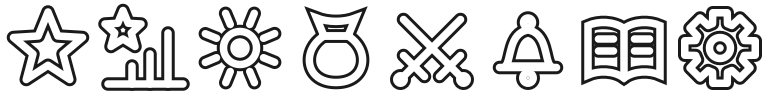
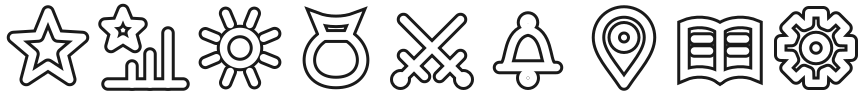
Map & location settings page (the location strip, its place, Show runs on the map); a Location button on the menu (map pin)

diff --git a/art/launcher.py b/art/launcher.py
@@ -1,11 +1,12 @@
 #!/usr/bin/env python3
-"""Generate toolbox/launcher.png: the launcher strip's button pictures, as an eight-frame sprite.
+"""Generate toolbox/launcher.png: the launcher strip's button pictures, as a nine-frame sprite.
 
     python3 art/launcher.py
 
 Frames, left to right (hud.lua's LN.BUTTONS uses the same order): XP (a star), XP Detailed (a star over a bar
-chart), Today (a sun), Loot Tracker (a bag), Combat Detailed (crossed swords), Notifications (a bell), Docs (an
-open book), Settings (a gear): Settings last, Docs above it (owner, 2026-10-10). White line art with a dark edge, so the game's tint (@gold) colours it and it
+chart), Today (a sun), Loot Tracker (a bag), Combat Detailed (crossed swords), Notifications (a bell), Location
+(a map pin; owner, 2026-10-13), Docs (an open book), Settings (a gear): Settings last, Docs above it (owner,
+2026-10-10). White line art with a dark edge, so the game's tint (@gold) colours it and it
 reads on any skin. Each frame is FRAME px square, drawn on a 64-unit grid. Writes art/launcher.svg and renders it
 with rsvg-convert, as art/marks.py does.
 """
@@ -57,6 +58,8 @@ FRAMES = [
     ("notify", '<path d="M17 44 C21 40 19 22 32 20 C45 22 43 40 47 44 Z" stroke-linejoin="round"/>'
                '<line x1="13" y1="45" x2="51" y2="45"/><circle cx="32" cy="52" r="3.5"/>'
                '<circle cx="32" cy="15" r="3"/>'),
+    ("location", '<path d="M32 56 C24 44 15 35 15 25 C15 15 23 8 32 8 C41 8 49 15 49 25 C49 35 40 44 32 56 Z" '
+                 'stroke-linejoin="round"/><circle cx="32" cy="25" r="6.5"/>'),
     ("docs", '<path d="M32 19 C25 14 15 14 8 17 V50 C15 47 25 47 32 52 C39 47 49 47 56 50 V17 C49 14 39 14 32 19 Z"/>'
              '<line x1="32" y1="19" x2="32" y2="52"/><line x1="15" y1="26" x2="25" y2="26"/>'
              '<line x1="15" y1="34" x2="25" y2="34"/><line x1="39" y1="26" x2="49" y2="26"/>'

diff --git a/AGENTS.md b/AGENTS.md
@@ -208,10 +208,12 @@ into one if a new file is ever needed).
   `ShroudGetPlayerCompassHeading`; hover = `ShroudGetLocationText`), its own `LOC.TICK` periodic setting text only
   on change, its width from the scene name's length (refit on a scene change); fishable water (API 32, `water`: the nearest within
   30 m on a line hidden when none, `LOC.UpdateWater`; the scene's kinds in the hover, re-read every `LOC.WATER_EVERY` s
-  (a town's water decoration changes them, review 32); harness `H.S.water`, `H.S.sceneWater`, `H.S.noWater`); controls on the HUD layout page.
+  (a town's water decoration changes them, review 32); harness `H.S.water`, `H.S.sceneWater`, `H.S.noWater`); controls (and its Position rows: `POSITIONED`'s
+  page field) on the "Map & location" page (`C.MapSection`, key "map", with the run markers' toggle; owner, 2026-10-13:
+  the home for map features to come).
   Then `Toolbox.Launcher` (LN; owner, 2026-10-10; "the menu" to players, `/toolbox menu`, alias `launcher`): one button a window (`LN.BUTTONS`: its
   `open()` and `toggle()`; the pop-up windows count as open when pinned; Notifications = `N.ToggleWindow`, the news
-  now in the window), pictures from `toolbox/launcher.png` (`art/launcher.py`, frames in `LN.BUTTONS` order) tinted
+  now in the window; Location shows or hides the location strip, `strip = true`: "show or hide" in its tooltip), pictures from `toolbox/launcher.png` (`art/launcher.py`, frames in `LN.BUTTONS` order) tinted
   `LN.COLOR` (@gold), `LN.LIT` / `LN.DIM` opacity as its window is open or not (its own `LN.TICK` periodic), text
   buttons without the picture. On by default, vertical, `HOME` = 0, 0; the first start without a saved
   `launcher` says so in chat once (per character). Settings last, Docs above it; a black shade behind (`shade` %,
@@ -374,7 +376,7 @@ into one if a new file is ever needed).
   arpeggio into a ringing chord, and skill_down, sinking "wah wah" notes, and skill_train / skill_maintain /
   skill_unlearn, two quick notes up, even and down, belong to skills.lua; block, parry and
   dodge, a thud, a clash and a whoosh, to combat.lua's shout), `launcher.py` (-> `toolbox/launcher.png`: the
-  menu's eight button pictures (in `LN.BUTTONS` order), white line art with a dark edge, tinted in game). Re-encoding changes the bytes even when the audio is the same:
+  menu's nine button pictures (in `LN.BUTTONS` order), white line art with a dark edge, tinted in game). Re-encoding changes the bytes even when the audio is the same:
   `git checkout` an .ogg you didn't mean to change. A player's own `Lua/toolbox_<name>` sounds win.
   Effect sounds (owner, 2026-10-08): a player's file per buff / debuff, for when you get it ("get": a debuff's
   landing, or a buff appearing outside the settling, `timers` empty) and / or when it's about to run out ("end": the

diff --git a/CHANGELOG.md b/CHANGELOG.md
@@ -17,15 +17,16 @@ ones included).
   Maintain (only what keeps their levels), or hide the tile (it still shows while paused). Also /toolbox skills
   pause and /toolbox skills resume. Needs a newer game client (Lua API 27), like the training markers.
 - **The menu:** a column of gold buttons on a shaded panel at the top left that opens Toolbox's windows with one
-  click: XP, XP Detailed, Today, Loot Tracker, Combat Detailed, Notifications (the news now, in the window), Docs
-  and Settings. A button is bright while its window is open; click again to close it. On at first: move it by its
-  grip. Under Settings, Menu, setups, backup & reset (the page was Setups, backup & reset): make it a row, change
+  click: XP, XP Detailed, Today, Loot Tracker, Combat Detailed, Notifications (the news now, in the window),
+  Location (the location strip), Docs and Settings. A button is bright while its window is open; click again to
+  close it. On at first: move it by its grip. Under Settings, Menu, setups, backup & reset (the page was Setups, backup & reset): make it a row, change
   its icon size and the shade behind it, hide it during combat, pick its buttons, or switch it off to open windows
   the old way. Also /toolbox menu.
 - **Location strip:** a small HUD strip showing where you are: the scene, your position (as /loc gives it, in
   whole numbers) and which way you face (compass direction and degrees). On Lua API 32 it also names the
-  nearest fishable water ("Salt water, 12 m"). Hover it for the whole /loc line. Off by default: switch it on under Settings, HUD layout (Show
-  where you are), or type /toolbox location.
+  nearest fishable water ("Salt water, 12 m"). Hover it for the whole /loc line. Off by default: switch it on
+  with the menu's Location button, under Settings, Map & location (a new page, with Show runs on the map), or
+  with /toolbox location.
 - Loot Tracker runs remember where you played most. Hover a run to see the spot, and press its **Beacon** button
   to mark it on your compass and map with the game's beacon (the one /beacon sets), to find a good farming spot
   again. It works while you're in that run's scene, and replaces any beacon you set. On Lua API 30 each run is

diff --git a/README.md b/README.md
@@ -36,8 +36,9 @@ A Shroud of the Avatar Lua add-on. It needs Lua API 25 (`min_api_version` in the
   (Lua API 27), plus a Pause skills tile that sets every skill to Off (or Maintain) in one click and puts them
   back in another (`/toolbox skills pause` / `resume`); skill level changes (up or down) can go to the
   notification HUD too.
-- **Menu**: a column (or row) of gold buttons on a shaded panel, top left at first, opening Toolbox's windows with
-  one click, bright while a window is open (`/toolbox menu`; settings under Menu, setups, backup & reset).
+- **Menu**: a column (or row) of gold buttons on a shaded panel, top left at first, opening Toolbox's windows (and
+  the location strip) with one click, bright while a window is open (`/toolbox menu`; settings under Menu, setups,
+  backup & reset).
 
 ## Install
 
@@ -236,7 +237,7 @@ the day's gold and kills and a list of every item gained today with its count, h
   the tooltip shows it as `/loc` writes it): its **Beacon** button sets the game's beacon there (the `/beacon`
   marker on the compass and map; it replaces yours, so only on a click), while you're in that run's scene. On Lua
   API 30 each run is also a gold flag on the region map and minimap in its scene, its note what the run brought in
-  (Settings, **Show runs on the map**; on by default). The flags don't reach the compass: Beacon does.
+  (Settings, Map & location, **Show runs on the map**; on by default). The flags don't reach the compass: Beacon does.
 
 ## Buff bar
 

diff --git a/toolbox/README.md b/toolbox/README.md
@@ -152,8 +152,8 @@ off to open windows from the settings as before (`/toolbox menu`).
 
 A small strip showing where you are: the scene, your position (as `/loc` gives it, in whole numbers) and
 which way you face, and on a newer game client the nearest water you can fish in ("Salt water, 12 m"). Hover it
-for the whole `/loc` line and the scene's kinds of water. Off by default: switch it on under **HUD layout**, or
-type `/toolbox location`.
+for the whole `/loc` line and the scene's kinds of water. Off by default: switch it on with the menu's Location button, under
+**Map & location** in the settings, or type `/toolbox location`.
 
 ## Commands
 
